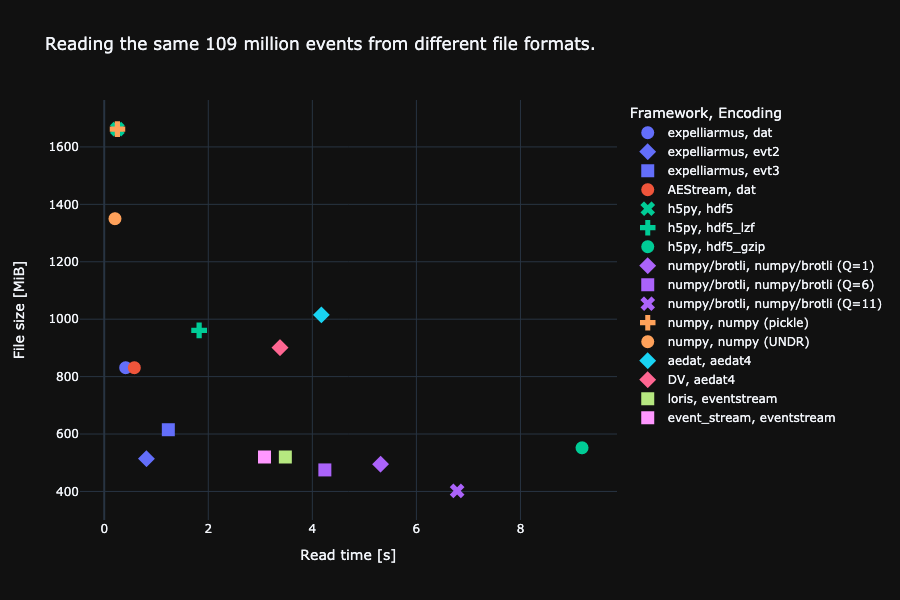
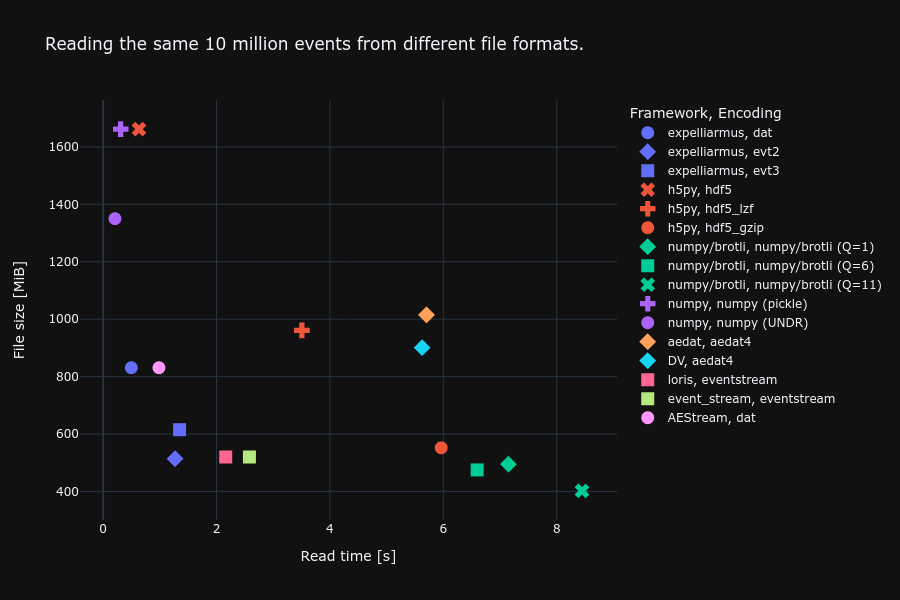
update file compression blog post with Plotly.js plots

diff --git a/content/english/blog/efficient-compression-event-based-data-neuromorphic-applications/index.md b/content/english/blog/efficient-compression-event-based-data-neuromorphic-applications/index.md
@@ -30,7 +30,7 @@ So how can we store such data efficiently?
 A straightforward idea is to resort to formats such as hdf5 and numpy and store the arrays of events directly. But without exploiting any structure in the recorded data, those uncompressed formats end up having the largest file footprint. For our example automotive dataset, this would result in some 7-8 TB of data, which is undesirable. Event camera manufacturers have come up with ways to encode event streams more efficiently. Not only are we concerned about the size of event files on disk, but we also want to be able to read them back to memory as fast as possible! 
 In the following figure we plot the results of our benchmark of different file type encodings and software frameworks that can decode files.
 
-{{< image src="file_read_benchmark.png" alt="Comparison among file size and read speed of different encodings and software tools." caption="Comparison among file size and read speed of different encodings and software tools." zoomable="true" >}}
+{{< chart data="file_read_benchmark" alt="Comparison among file size and read speed of different encodings and software tools." caption="Comparison among file size and read speed of different encodings and software tools.">}}
 
 Ideally, we want to be close to the origin where we read fast and compression is high. The file size depends on the encoding, whereas the reading speed depends on the particular implementation/framework of how files are read. In terms of file size, we can see that numpy doesn't use any compression whatsoever, resulting in some 1.7GB file for our sample recording. Prophesee's [evt3](https://docs.prophesee.ai/stable/data/encoding_formats/evt3.html) and the generic lossless [brotli](https://github.com/google/brotli) formats achieve the best compression. In terms of reading speed, numpy is the fastest as it doesn't deal with any compression on disk. Unzipping the compressed events from disk on the other hand using h5py is by far the slowest. Using [Expelliarmus](https://github.com/open-neuromorphic/expelliarmus) and the [evt2](https://docs.prophesee.ai/stable/data/encoding_formats/evt2.html) file format, we get very close to numpy reading speeds while at the same time only using a fourth of the disk space. For more information about Prophesee event encoding formats, check out [this blog post](https://fabrizio-ottati.dev/blog/file-reading-benchmark/).
 
